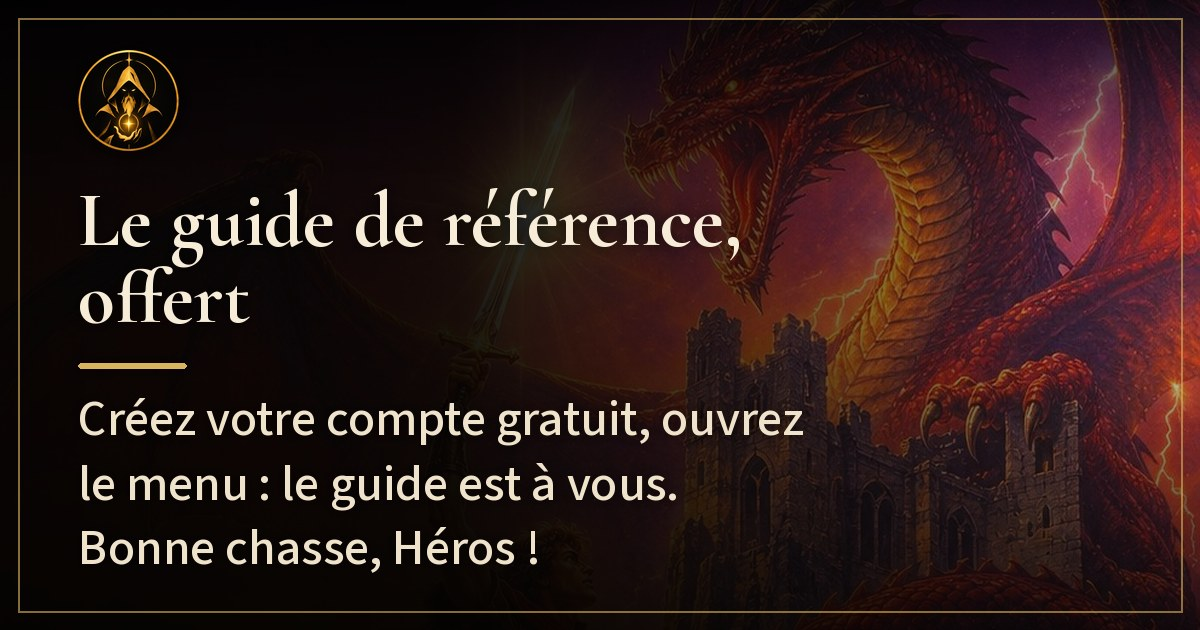
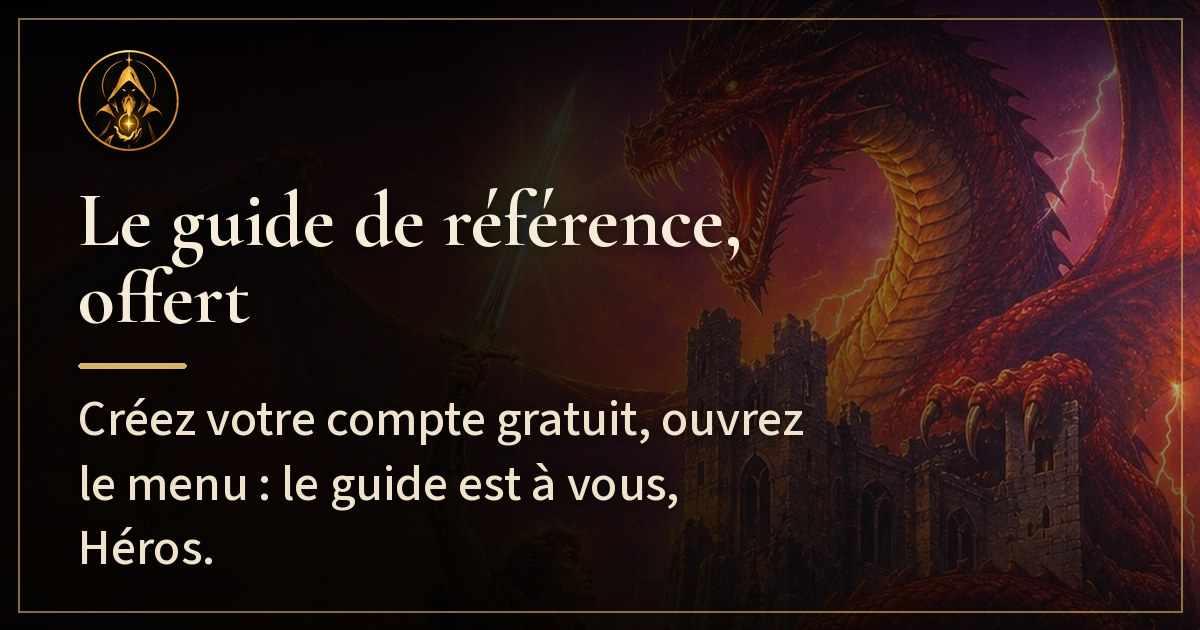
Plus de « bonne chasse » : image du guide et introduction du PDF
Claude-Session: https://claude.ai/code/session_01HTe4GG8zQBr2ycdCYNMDrp

Changed region(s): [[0.0617, 0.8444, 0.4625, 0.9048]]

diff --git a/pipeline/guide/introduction.md b/pipeline/guide/introduction.md
@@ -24,6 +24,6 @@ Trois repères l'accompagnent :
 
 Ces repères sont ceux du {date}. Lisez-les comme une indication, pas comme un verdict. La feuille d'aventure redonne le sens de chaque mot.
 
-Bonne lecture, et bonne chasse. **lacoteduheros.fr**
+Bonne lecture. **lacoteduheros.fr**
 
 Le site reste gratuit ; s'il vous est utile, vous pouvez « Offrir un café » depuis le site.
